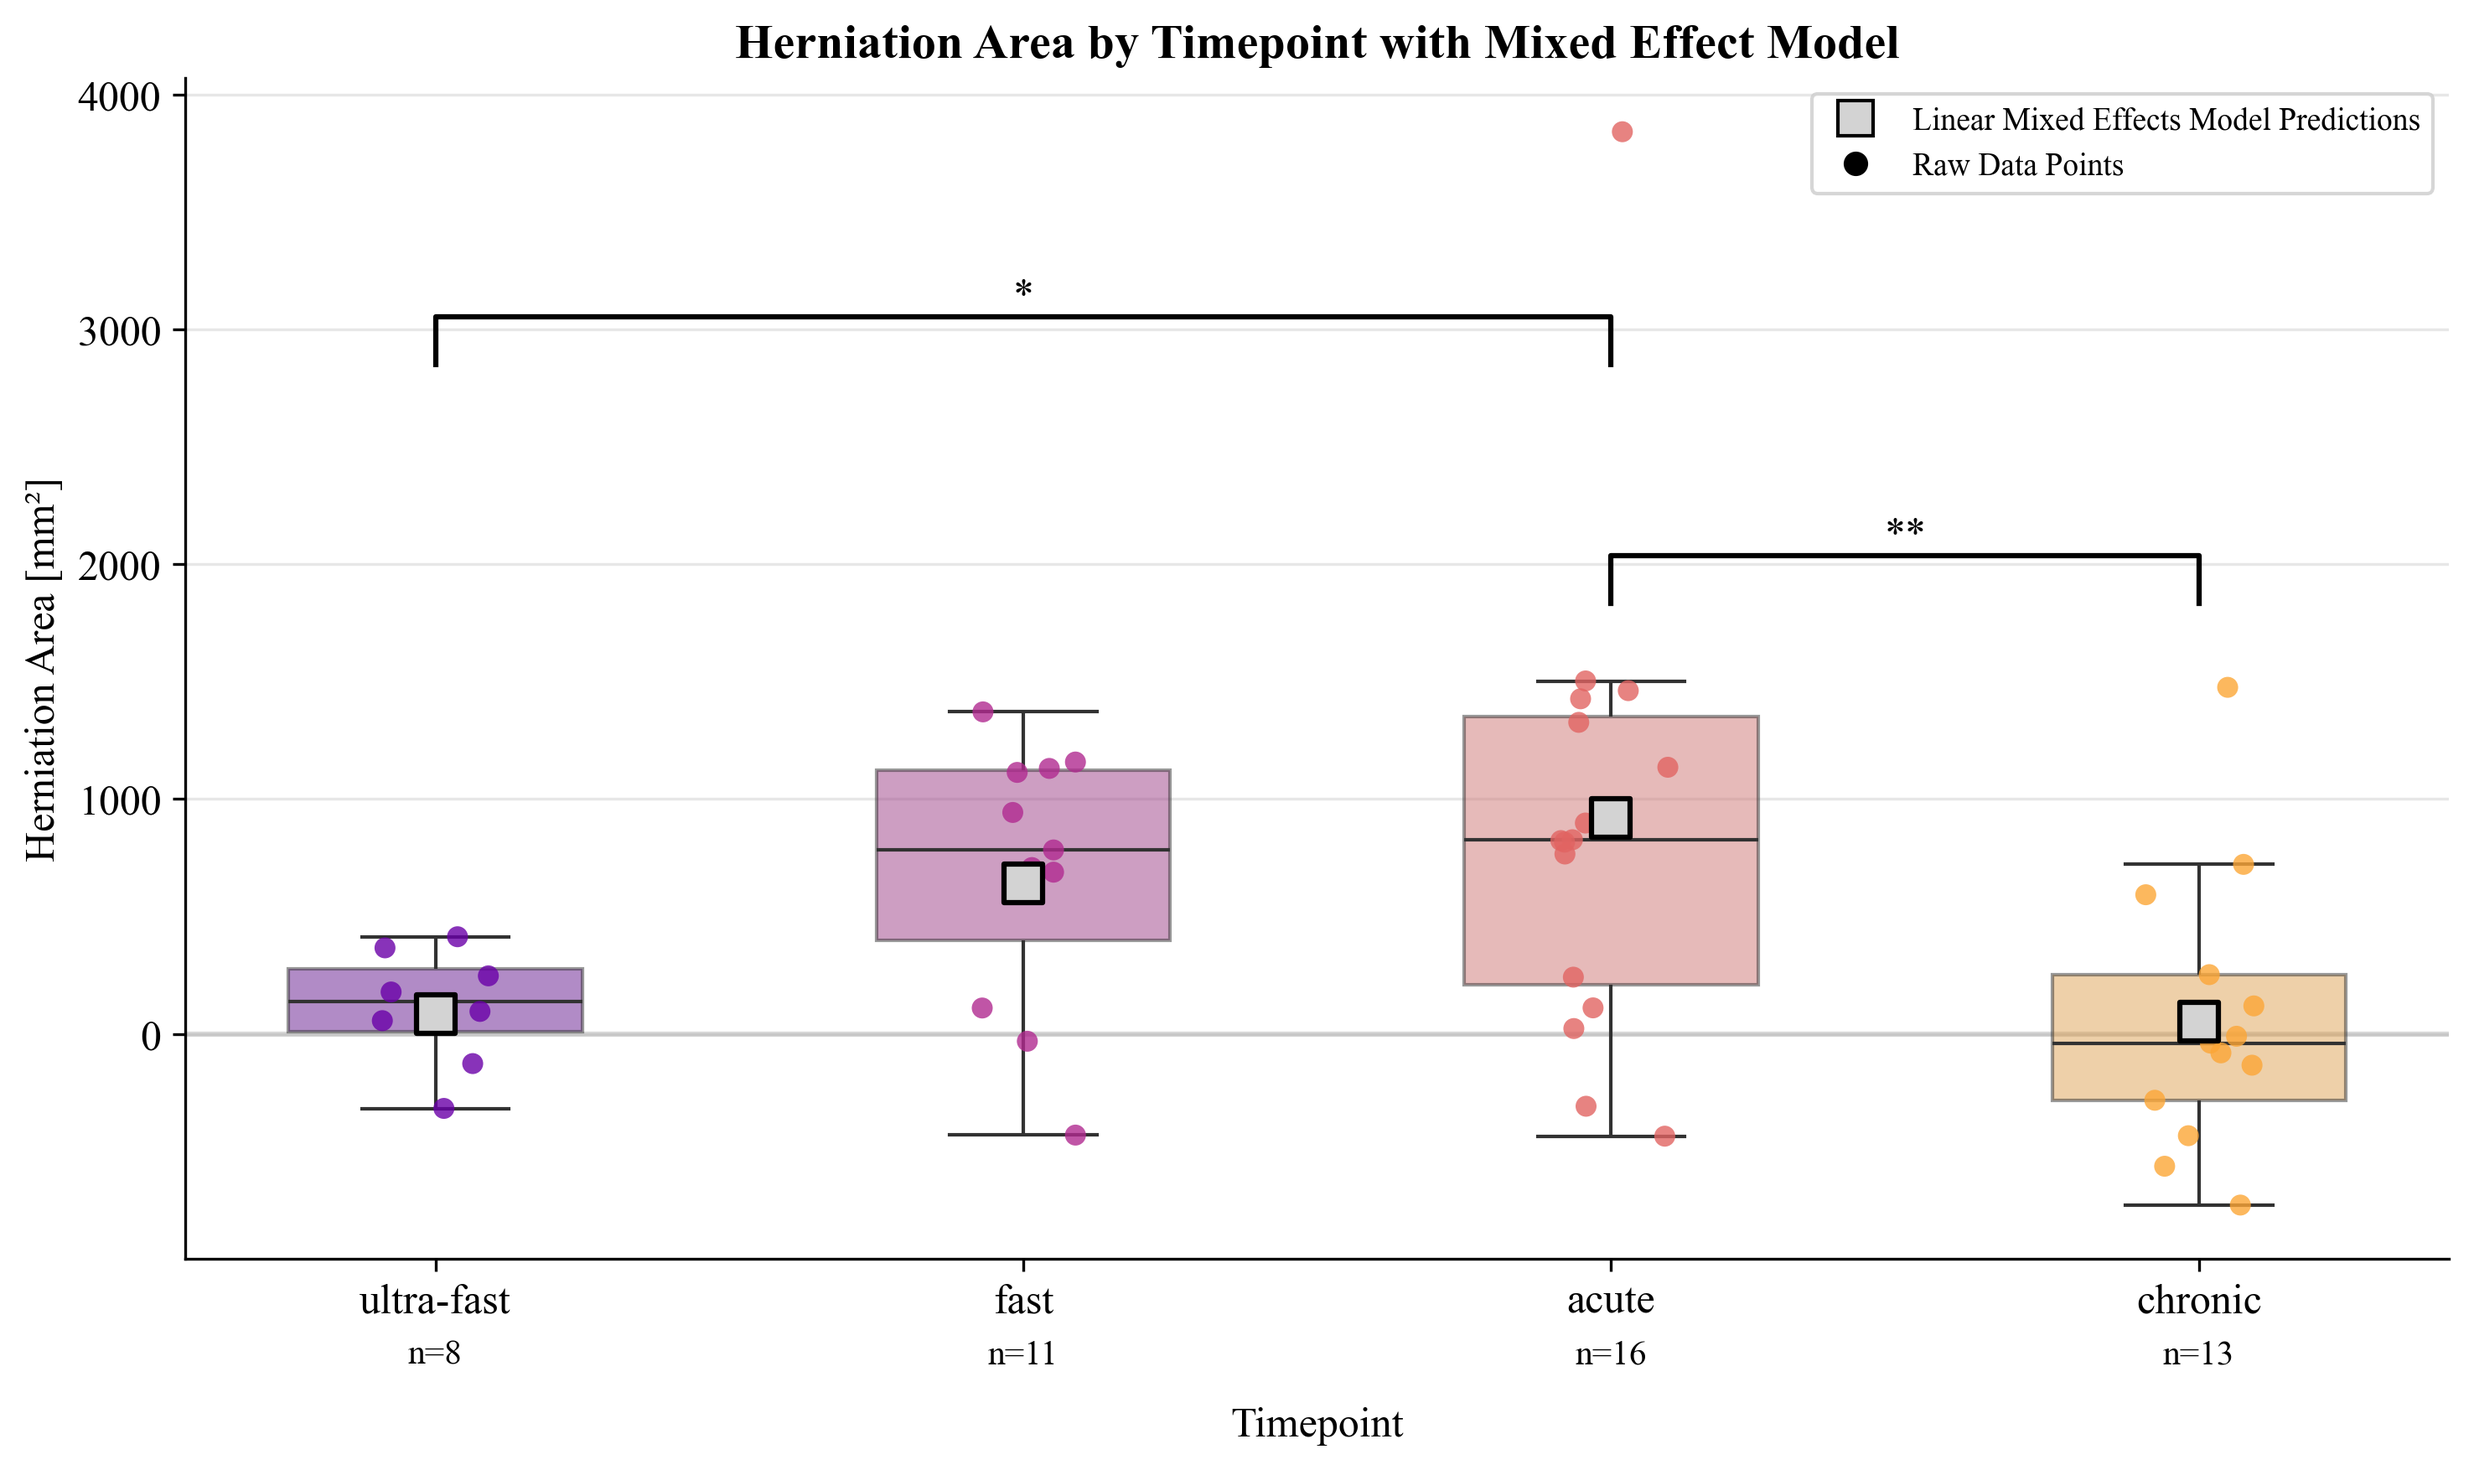
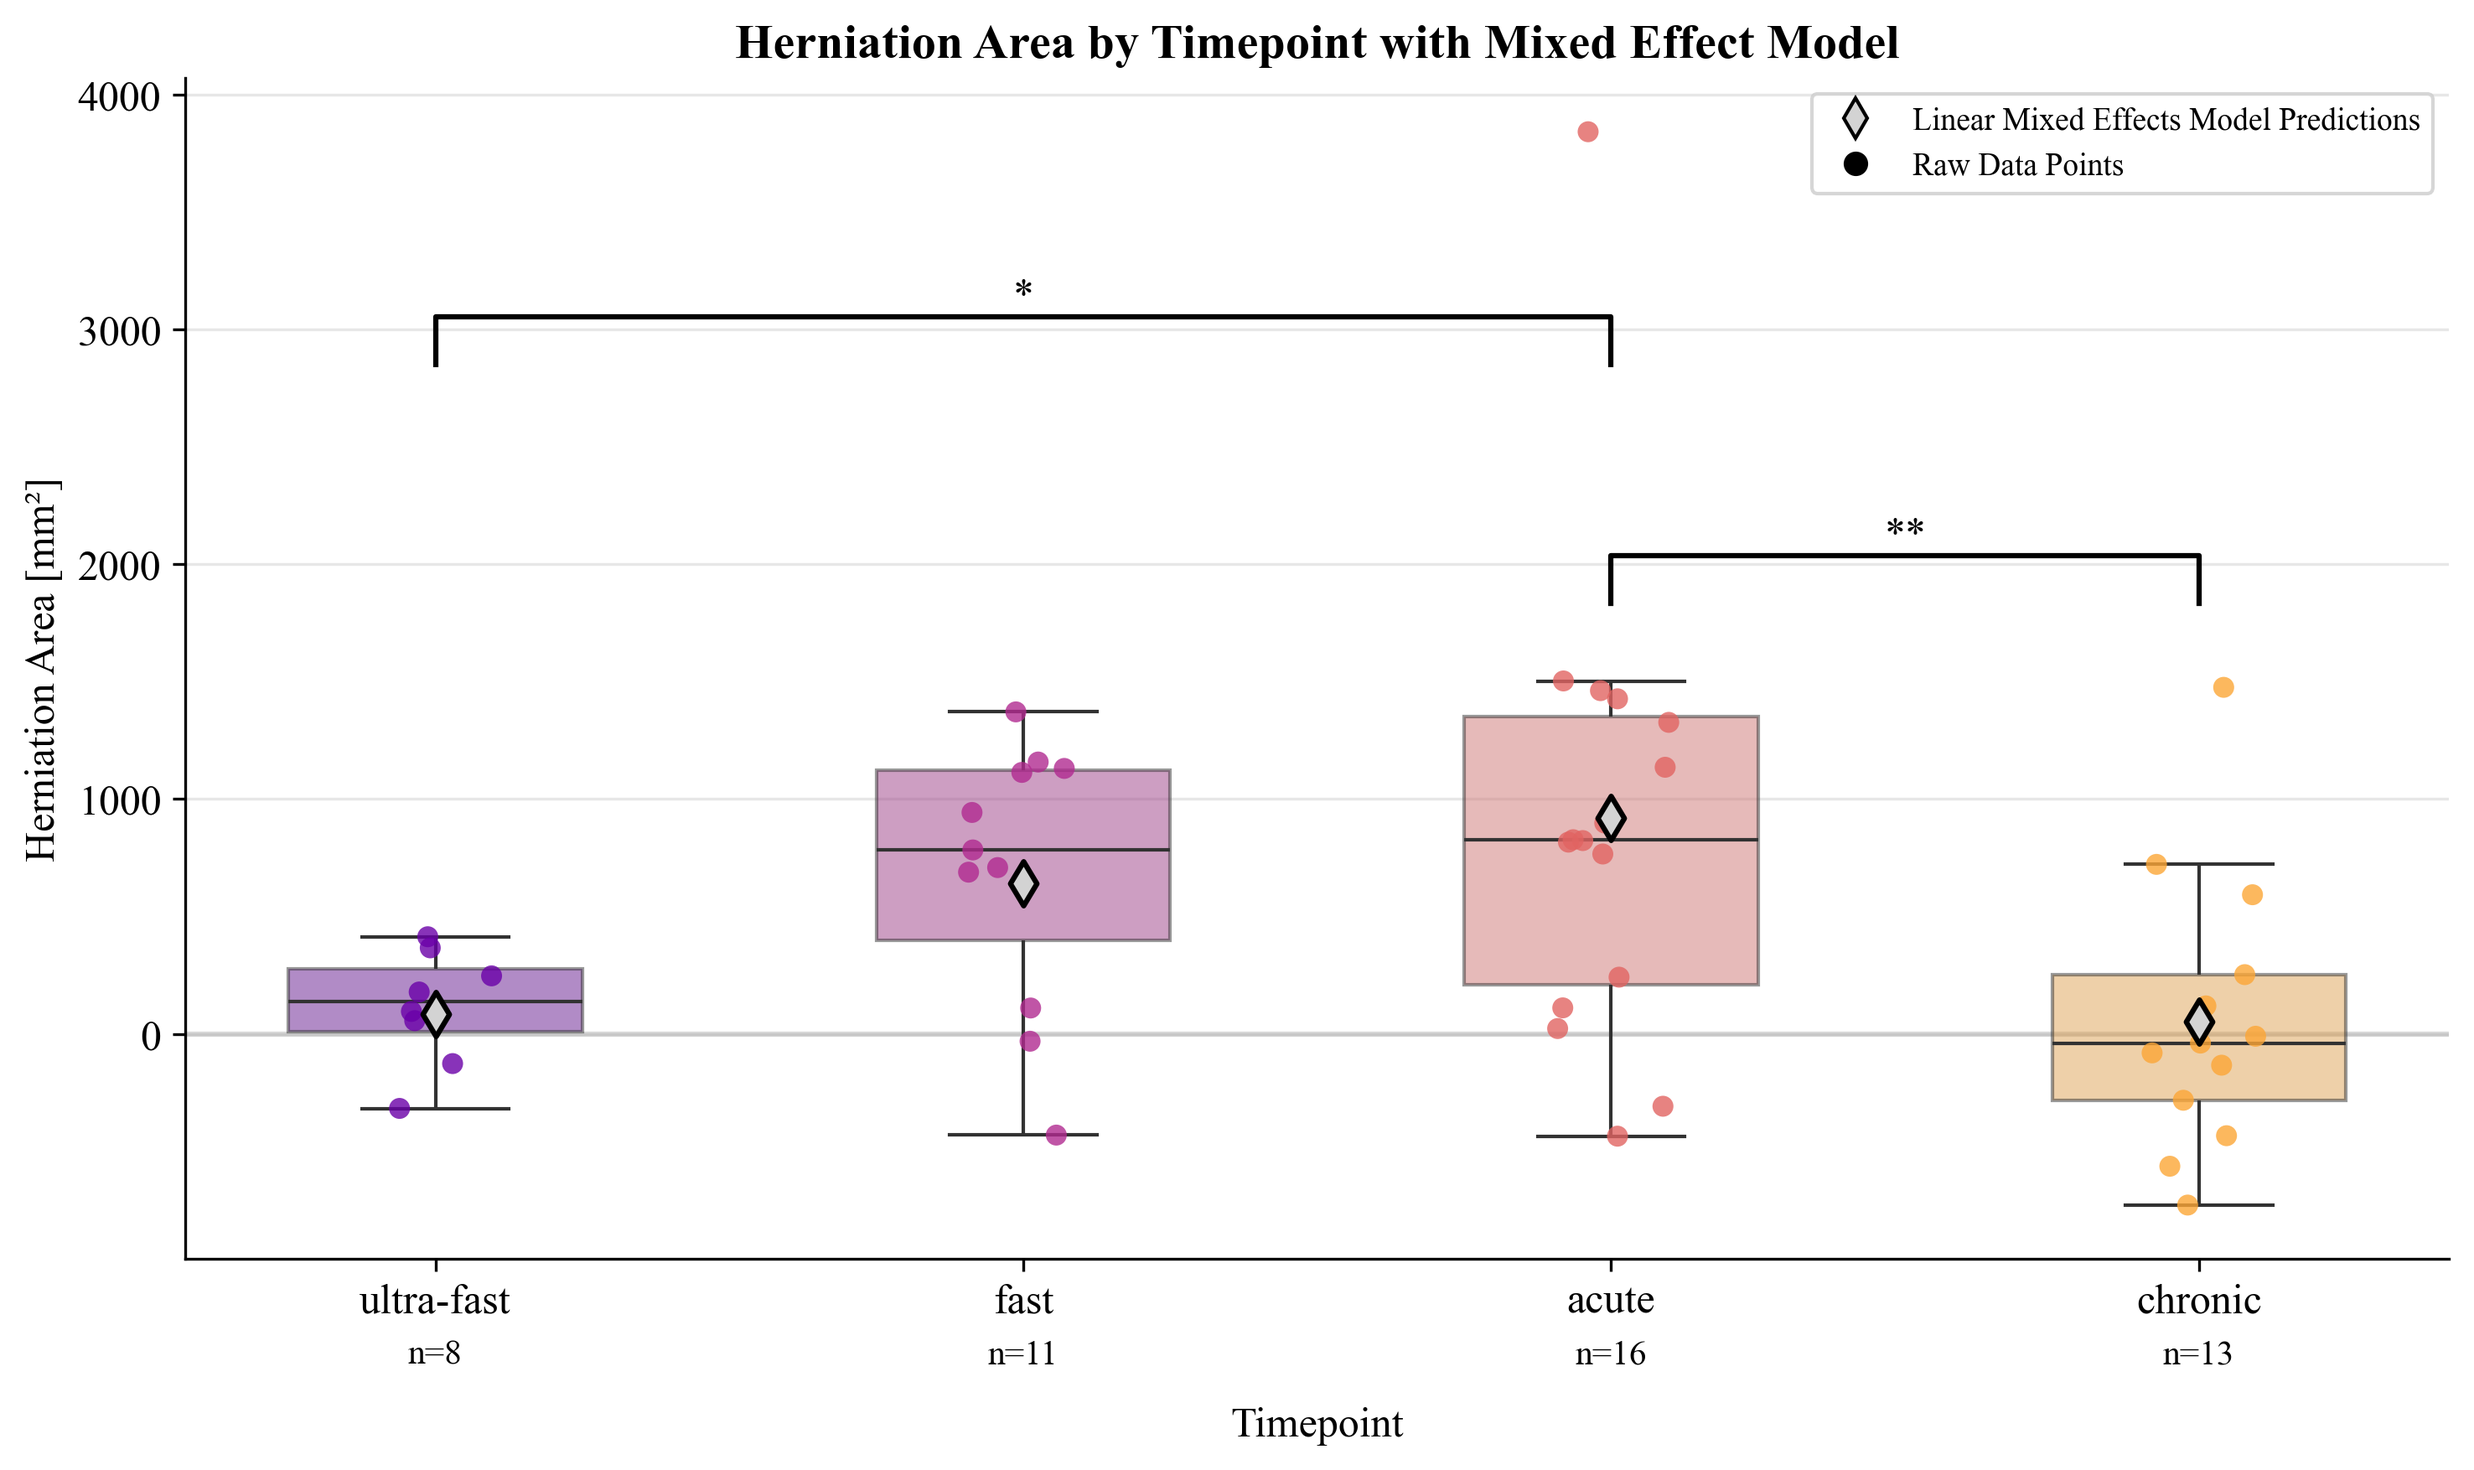
update markers to be diamond

diff --git a/Image_Processing_Scripts/stats_main.py b/Image_Processing_Scripts/stats_main.py
@@ -953,7 +953,7 @@ def mixed_effect_boxplot(df, result, timepoints=['ultra-fast', 'fast', 'acute', 
         if tp in predictions:
             pred_value = predictions[tp]
             ax.scatter(i, pred_value, color='lightgrey',#custom_colors.get(tp, 'black'), 
-                      marker='s', s=120, zorder=10, 
+                      marker='d', s=80, zorder=10, 
                       edgecolor='black', linewidth=1.5)
     
     # Create a more professional legend
@@ -984,10 +984,10 @@ def mixed_effect_boxplot(df, result, timepoints=['ultra-fast', 'fast', 'acute', 
         #             label = f"{category.capitalize()}"
             
     legend_elements.append(
-        Line2D([0], [0], marker='s', color='w', 
+        Line2D([0], [0], marker='d', color='w', 
                 markerfacecolor='lightgrey',#custom_colors.get(category, 'black'),
                 markeredgecolor='black',
-                markersize=10, label="Linear Mixed Effects Model Predictions")#, label=label)
+                markersize=8, label="Linear Mixed Effects Model Predictions")#, label=label)
             )
     
     # Small circle for jitter points (size=6 from stripplot)
@@ -1774,7 +1774,7 @@ if __name__ == '__main__':
 
     # pairwise test visualisations:
     #THIS ONE ONLY:
-    data_availability_matrix(pivoted_data, timepoints=['ultra-fast', 'fast', 'acute', '3mo', '6mo', '12mo', '24mo'], filename='data_availability.png')
+    # data_availability_matrix(pivoted_data, timepoints=['ultra-fast', 'fast', 'acute', '3mo', '6mo', '12mo', '24mo'], filename='data_availability.png')
     
     #significance_matrix_ttest(valid_results, timepoints=['ultra-fast', 'fast', 'acute', '3mo', '6mo', '12mo', '24mo'], filename='significance_matrix.png')
     #significance_matrix_wilcoxon(valid_wilcoxon_results, timepoints=['ultra-fast', 'fast', 'acute', '3mo', '6mo', '12mo', '24mo'], filename='significance_matrix_wilcoxon.png')
@@ -1782,12 +1782,12 @@ if __name__ == '__main__':
 
     # Mixed effect model visualisations:
     # THIS ONE:
-    data_availability_matrix(binned_df_pivot, order, filename='data_availability_matrix_binned.png')
+    # data_availability_matrix(binned_df_pivot, order, filename='data_availability_matrix_binned.png')
 
     # Plot the significance matrix
     # THIS ONE: (2 LINES)
-    sig_df, mask = emmeans_significance_matrix(py_pairs)
-    plot_emmeans_sig_mat(sig_df, mask)  
+    # sig_df, mask = emmeans_significance_matrix(py_pairs)
+    # plot_emmeans_sig_mat(sig_df, mask)  
 
-    # mixed_effect_boxplot(new_df, result, timepoints=['ultra-fast', 'fast', 'acute', '3mo', '6mo', '12mo', '24mo'], chronic_timepoints=['3mo', '6mo', '12mo', '24mo'])
+    mixed_effect_boxplot(new_df, result, timepoints=['ultra-fast', 'fast', 'acute', '3mo', '6mo', '12mo', '24mo'], chronic_timepoints=['3mo', '6mo', '12mo', '24mo'])
    
